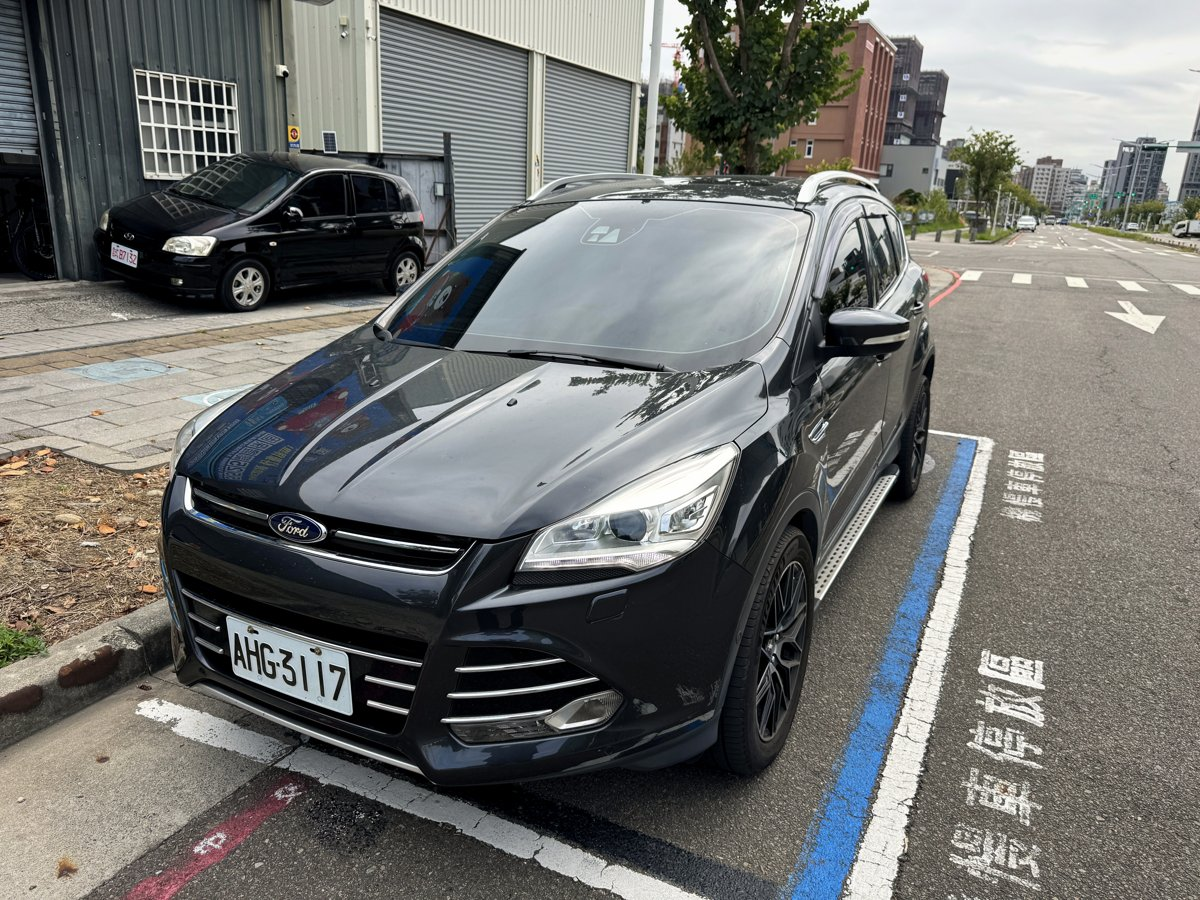
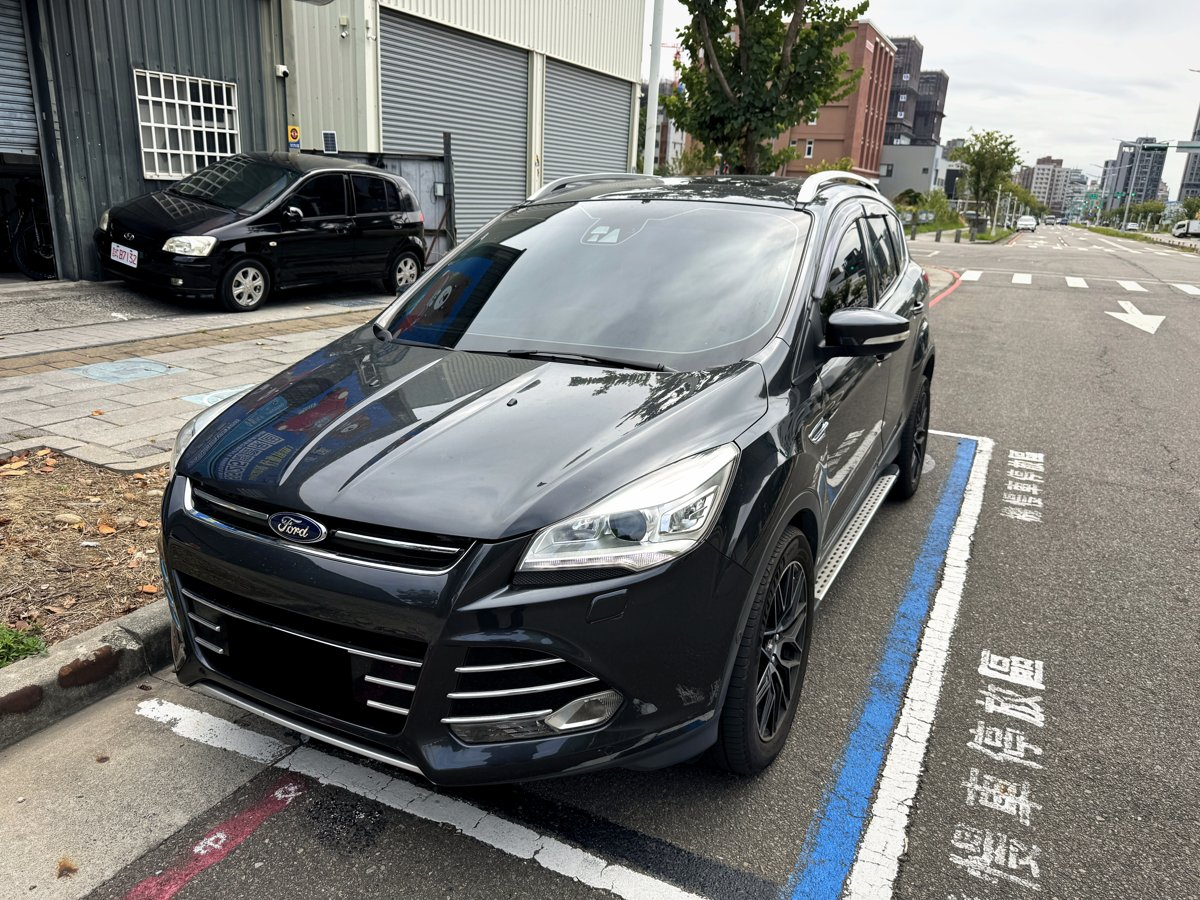
Kuga 車照：調亮＋車牌遮擋

Changed region(s): [[0.185, 0.6844, 0.3083, 0.8089]]

diff --git a/cars.js b/cars.js
@@ -6,7 +6,7 @@
 // 賣掉了：把 sold 改成 true（會顯示「已售出」），或直接刪掉那一段
 const CARS = [
   {
-    id: 100, photos: ["img/car100_p01.jpg","img/car100_p02.jpg","img/car100_p03.jpg"],
+    id: 100, photos: ["img/car100_p01.jpg?v=2","img/car100_p02.jpg?v=2","img/car100_p03.jpg?v=2"],
     brand: "Ford", model: "Kuga 2.0T 旗艦版 4WD", year: 2014, km: "13 萬多", price: 18.8, type: "休旅",
     tags: ["全原廠保養", "四輪驅動", "全景天窗"],
     points: ["差速器、ABS 通病已更換", "ACC 主動跟車、車道偏離警示、盲點偵測", "路邊停車輔助", "全景天窗、電動尾門", "後座出風口", "2.0T 渦輪＋四輪驅動"],

diff --git a/index.html b/index.html
@@ -172,7 +172,7 @@ footer strong{color:var(--yellow)}
   </div>
 </div>
 
-<script src="cars.js?v=10"></script>
+<script src="cars.js?v=11"></script>
 <script>
 const PHOTOS = 4; // 每台車的照片數（img/car{id}_1.jpg ~ _4.jpg）
 const grid = document.getElementById('grid');
